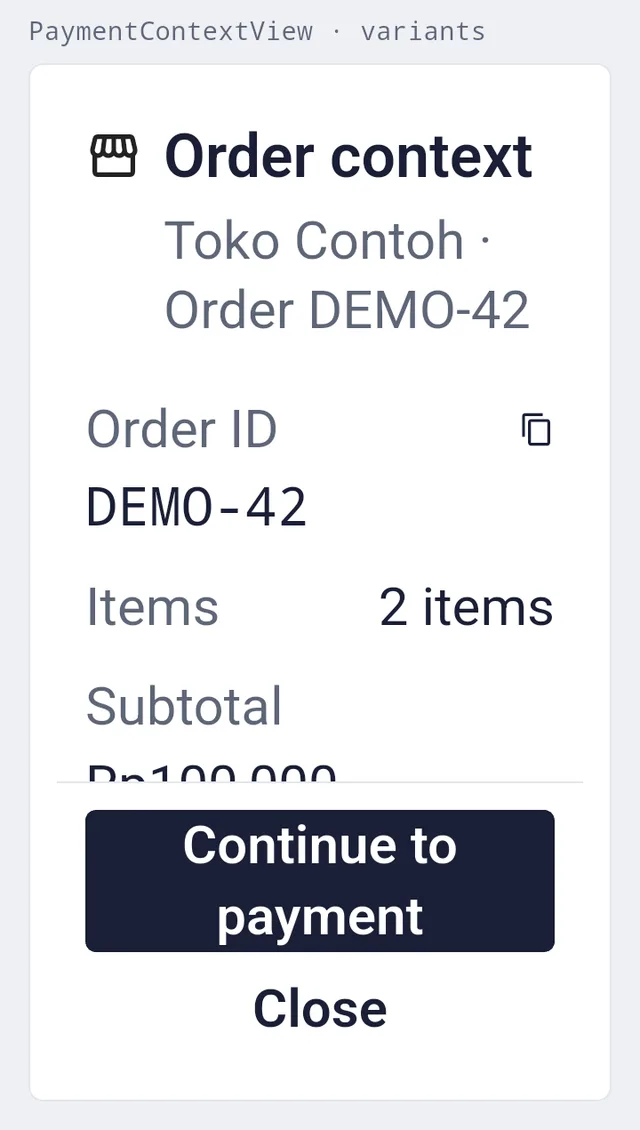
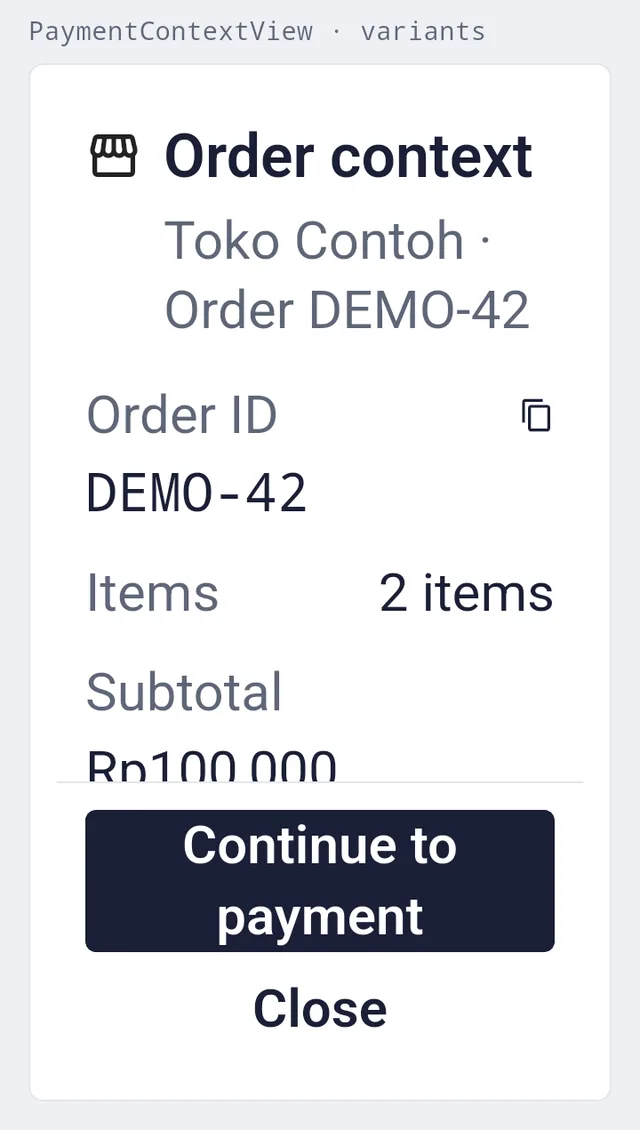
fix(views): tighten the large-text header gap; record D91 (#161)
At large text a page header's gap to its body is related (8 dp)
instead of group (16 dp). With the status-filter fold this puts a whole
first history row above the tab bar at 320 dp and 200% with
three-button navigation. Records D91 with device measurements and
refreshes the affected 200% docs captures.

diff --git a/lib/src/foundation/view_frame.dart b/lib/src/foundation/view_frame.dart
@@ -324,11 +324,16 @@ class ViewHeader extends StatelessWidget {
     };
     return Padding(
       // A breadcrumb's 48 dp target already spaces it from the edge above.
+      // At large text the gap to the body is `related`: the title's tall
+      // line already leaves room under the glyphs, and on a small phone the
+      // body needs the height (D91).
       padding: EdgeInsets.fromLTRB(
         space,
         above == null ? space : theme.space(PaymentSpace.inline),
         space,
-        space,
+        PaymentType.isLarge(context)
+            ? theme.space(PaymentSpace.related)
+            : space,
       ),
       child: LayoutBuilder(
         builder: (context, k) {

diff --git a/example/test/android_header_navbar_test.dart b/example/test/android_header_navbar_test.dart
@@ -59,6 +59,8 @@ void main() {
     // is a button on the search line.
     expect(find.byType(PaymentTabs), findsNothing);
     final search = t.getRect(find.byType(PaymentTextField));
+    // At large text the header's gap to the body is `related` (D91).
+    expect(search.top - t.getRect(find.text('Transactions').first).bottom, 8);
     final row = find.byType(TransactionListItem).first;
     expect(t.getRect(row).top, moreOrLessEquals(search.bottom));
     final navTop = t.getRect(find.byType(NavigationBar)).top;

diff --git a/docs/prd-foundation-components.md b/docs/prd-foundation-components.md
@@ -1695,6 +1695,7 @@ New in revision 3 (parity; for review):
 | D89 | **The toast's snack bar animation runs 1 µs under reduced motion.** Under reduced motion the kit passes a 1 µs `snackBarAnimationStyle` each way, not `AnimationStyle.noAnimation`. A toast or host snack bar shows and leaves within two device frames; a swap shows the old bar, one blank frame, then the new bar. No frame paints an in-between value. Refines D66 ("reduced means zero") and the reduced-motion swap in D77 and D78 for the toast only. B9 for the toast's show and leave is checked by `expectToastStill`: still after two frames, each bar fully shown or hidden on every frame. Other kit motion keeps zero. Orchestrator decision, B3 batch, 2 Nov 2026 (#126). | At zero, `ScaffoldMessengerState.hideCurrentSnackBar` (Flutter 3.44.6) dismisses synchronously and starts the waiting bar. That bar completes before the SDK clears the old reading timer, so debug builds fail `_snackBarTimer == null` (`scaffold.dart:409`). It fired when a kit toast closed with a host bar waiting, and when a host bar timed out with another waiting on the zero-duration animation a kit toast left behind. The screen-reader hide jumps to zero, so both directions need the delay. Tested: zero entrance with a 1 µs exit still fails the screen-reader case. Cost: one extra frame per change, and toast B9 is checked over two frames, not one. |
 
 | D90 | **Long catalog specimens continue in ordered parts.** A keyed specimen taller than D82's 1200 dp cap is not cut off. The first image keeps its name and its D82 crop; continuation images `<name>_part2`, `<name>_part3` and so on follow in reading order. Each part is at most 1200 dp tall and repeats the last 64 dp of the part before, and the last part ends at the specimen's 16 dp bottom margin. The capture harness measures the overflow and scrolls the gallery for each part; the driver deletes a name's older parts when it writes that name's first image. `pnpm screens` lists the parts under their first image's `screens.json` entry (`parts`, each with width and height) and deletes part WebPs no entry lists. `<Screen>` shows every part after the first image, light and dark sets separately, with "Part n of N" alt text and a caption note. `pnpm check:pages` fails on a missing or unlisted part and on a phone catalog image over the cap. The 1200 dp cap and the real-size overlay and state captures are unchanged. Extends D82. Orchestrator scope B4, 2 Nov 2026 (#172). | Eleven 200% and long specimens stopped at the cap and hid examples. Raising the cap would make one image up to 5,382 dp (about 10,760 px) tall, too long to read on a page and heavy to load. Overlapping parts keep every image bounded and repeat any row cut at a seam. |
+| D91 | **On phones at large text, history's status filter is a button on the search line.** Below 600 dp and above 1.5× text (`PaymentType.isLarge`), `TransactionHistory` drops the status tab row and puts a 48 dp filter `PaymentIconButton` at the end of the search line, after the host's `searchActions` (D63a). Its tooltip and spoken name is "Filter by status" / "Saring menurut status"; its spoken value is the current filter. It opens a `PaymentMenu` (the D55 action sheet on phones) listing every filter, the current one with a check. While a filter other than All is set, the glyph fills and takes the accent and the button reads as selected, like the date-range button. The search line keeps the placeholder label (D63a). Normal text and wide screens keep the tabs. At large text every page header's gap to the body (`ViewHeader` bottom padding) is `related` (8 dp) instead of `group` (16 dp), at every width: the title's tall line already leaves room under the glyphs. Every filter stays one tap away and the active filter still shows as a host chip; it is the same list in the same place, not a separate large-text mode (D63). No public API change; one new kit string. Refines D63a and D83. Owner decision to fix, not accept 360 dp, 3 Nov 2026 (#161). | After D83, at 320 dp and 200% (Android's smallest "largest display size"), the first row's badge was still 25.8 dp (gesture) and 47.1 dp (3-button) under the app's tab bar. The tab row and its gap take 56 dp; the header gap gives 8 dp more, so a whole row clears with three-button navigation. A smaller title role saves nothing, because the ⋮ target already sets the title row's 48 dp. Not chosen: accepting 360 dp as the target; hiding the search box behind a button (search is the main way to find a payment). Cost: the status filter is one tap deeper on phones at large text, and the search box is 56 dp narrower there, so its placeholder ellipsizes sooner; large-text page headers sit 8 dp closer to their body. |
 
 #### D83 acceptance measurements (2 Nov 2026)
 
@@ -1712,6 +1713,23 @@ A01 on the Android 17/API 37 phone at 200% app text, system Light. Native dpr 2 
 | 320 dp | id | Three-button | Does not fit | −59.1 dp | −47.1 dp |
 
 Layer renders and system screenshots: `C:/DevTools/android-fixes/pr-df/{gesture|threebutton}_{360|320}_history_{en|id}_light_200_{layer|system}.png`. The complete first row fits at 360 dp in both languages and navigation modes. At 320 dp, the badge shortfall is 25.8 dp with gestures and 47.1 dp with three-button navigation, in both languages. The orchestrator approved a draft with these measured gaps and no further layout change in this PR; the owner will open a follow-up for the 320 dp remainder. No large-text mode was added (D63).
+
+#### D91 acceptance measurements (3 Nov 2026)
+
+A01 on the Android 17/API 37 phone (`FlutterPayment_API37_2`) at 200% app text, system Light, measured in-app from the laid-out rects. Native dpr 2 is 360×640 dp; PASS_DPR=2.25 is 320×568.9 dp. Positive clearance is above the app's tab bar. Row clearance includes the row's 12 dp bottom padding; badge clearance measures the badge bottom.
+
+| Width | Language | Navigation | Whole first row | Row clearance | Badge clearance | Before (D83) row / badge |
+| --- | --- | --- | --- | ---: | ---: | ---: |
+| 320 dp | en | Three-button | Fits | +4.9 dp | +16.9 dp | −59.1 / −47.1 dp |
+| 320 dp | id | Three-button | Fits | +4.9 dp | +16.9 dp | −59.1 / −47.1 dp |
+| 320 dp | en | Gesture | Fits | +26.2 dp | +38.2 dp | −37.8 / −25.8 dp |
+| 320 dp | id | Gesture | Fits | +26.2 dp | +38.2 dp | −37.8 / −25.8 dp |
+| 360 dp | en | Three-button | Fits | +68.0 dp | +80.0 dp | +4.0 / +16.0 dp |
+| 360 dp | id | Three-button | Fits | +68.0 dp | +80.0 dp | +4.0 / +16.0 dp |
+| 360 dp | en | Gesture | Fits | +92.0 dp | +104.0 dp | +28.0 / +40.0 dp |
+| 360 dp | id | Gesture | Fits | +92.0 dp | +104.0 dp | +28.0 / +40.0 dp |
+
+The 320 dp gesture rows were measured with the tab fold alone (+18.2 / +30.2 dp in both languages); the header gap adds the same 8 dp it adds in every other row (the first row starts 8 dp higher: 229.3 dp against 237.3 dp), so the table shows +26.2 / +38.2 dp. The other rows were measured on the final code. System screenshots: `C:/DevTools/android-fixes/pr-161/{gesture|threebutton}_320_history_{en|id}_light_200_system.png`. No large-text mode was added (D63).
 
 ## 9. Variant governance
 

diff --git a/docs/decisions.md b/docs/decisions.md
@@ -660,6 +660,23 @@ A01 on the Android 17/API 37 phone at 200% app text, system Light. Native dpr 2 
 
 Layer renders and system screenshots: `C:/DevTools/android-fixes/pr-df/{gesture|threebutton}_{360|320}_history_{en|id}_light_200_{layer|system}.png`. The complete first row fits at 360 dp in both languages and navigation modes. At 320 dp, the badge shortfall is 25.8 dp with gestures and 47.1 dp with three-button navigation, in both languages. The orchestrator approved a draft with these measured gaps and no further layout change in this PR; the owner will open a follow-up for the 320 dp remainder. No large-text mode was added (D63).
 
+#### D91 acceptance measurements (3 Nov 2026)
+
+A01 on the Android 17/API 37 phone (`FlutterPayment_API37_2`) at 200% app text, system Light, measured in-app from the laid-out rects. Native dpr 2 is 360×640 dp; PASS_DPR=2.25 is 320×568.9 dp. Positive clearance is above the app's tab bar. Row clearance includes the row's 12 dp bottom padding; badge clearance measures the badge bottom.
+
+| Width | Language | Navigation | Whole first row | Row clearance | Badge clearance | Before (D83) row / badge |
+| --- | --- | --- | --- | ---: | ---: | ---: |
+| 320 dp | en | Three-button | Fits | +4.9 dp | +16.9 dp | −59.1 / −47.1 dp |
+| 320 dp | id | Three-button | Fits | +4.9 dp | +16.9 dp | −59.1 / −47.1 dp |
+| 320 dp | en | Gesture | Fits | +26.2 dp | +38.2 dp | −37.8 / −25.8 dp |
+| 320 dp | id | Gesture | Fits | +26.2 dp | +38.2 dp | −37.8 / −25.8 dp |
+| 360 dp | en | Three-button | Fits | +68.0 dp | +80.0 dp | +4.0 / +16.0 dp |
+| 360 dp | id | Three-button | Fits | +68.0 dp | +80.0 dp | +4.0 / +16.0 dp |
+| 360 dp | en | Gesture | Fits | +92.0 dp | +104.0 dp | +28.0 / +40.0 dp |
+| 360 dp | id | Gesture | Fits | +92.0 dp | +104.0 dp | +28.0 / +40.0 dp |
+
+The 320 dp gesture rows were measured with the tab fold alone (+18.2 / +30.2 dp in both languages); the header gap adds the same 8 dp it adds in every other row (the first row starts 8 dp higher: 229.3 dp against 237.3 dp), so the table shows +26.2 / +38.2 dp. The other rows were measured on the final code. System screenshots: `C:/DevTools/android-fixes/pr-161/{gesture|threebutton}_320_history_{en|id}_light_200_system.png`. No large-text mode was added (D63).
+
 ### Docs readability, 2 November 2026
 
 - **D86 — docs decision guides are tables; screenshots show at real phone size (#182, #183).** A "which token or variant when" guide is a two-column Markdown table (condition, then token or variant), with "Use the first row that matches" where order matters. It is never a fenced text block. Diagrams and verbatim text (banner anatomy, the host-owned data flow, the license) may stay fenced. A phone capture in `<Screens>` displays at up to 22.5 rem, its 360 dp width at 1:1. It shares a row when there is room and wraps instead of shrinking on narrow columns. Tablet captures (wider than 640 px) use the full column. Chart component pages lead with their cropped `_variants` specimen (D82), not the full-screen gallery capture with fixture chips and the nav bar. The Sparkline variants specimen now shows the sparkline beside a KPI amount and as a two-period comparison. It replaces a lone line centred in a 180 dp box, and drops a dead single-series branch nested under the meter case. The full-screen `chart_*` captures stay registered; no page shows them.
@@ -673,3 +690,7 @@ Layer renders and system screenshots: `C:/DevTools/android-fixes/pr-df/{gesture|
 ### Long catalog specimens, 2 November 2026
 
 - **D90 — long catalog specimens continue in ordered parts (#172).** Extends D82. A keyed specimen taller than the 1200 dp cap is not cut off. The first image keeps its name and its D82 crop; continuation images `<name>_part2`, `<name>_part3` and so on follow in reading order. Each part is at most 1200 dp tall and repeats the last 64 dp of the part before, so a row cut at one image's lower edge is whole at the top of the next; the last part ends at the specimen's 16 dp bottom margin. `captureSlices` in `example/integration_test/capture_slices.dart` plans the parts from the measured height; `capture()` scrolls the gallery to each part, checks that it starts below the app bar and ends inside the gallery, and scrolls back. The driver deletes a name's older `_partN` PNGs when it writes that name's first image, so a shorter recapture leaves no stale tail. `pnpm screens` lists the parts under their first image's `screens.json` entry (`parts`, each with width and height) and deletes part WebPs that no entry lists. `<Screen>` shows every part after the first image, the light and dark sets separately, with "Part n of N" alt text and a caption note; pages keep one `<Screen>` per specimen. `pnpm check:pages` fails on a missing or unlisted part and on a phone catalog image over the cap. Rejected: raising the cap (the longest specimen, the Indonesian data table at 200%, is 5,382 dp, about 10,760 px) and per-page manual crops. Tablet specimens follow the same rule when they are recaptured.
+
+### History at 320 dp, 3 November 2026
+
+- **D91 — on phones at large text, history's status filter is a button on the search line (#161).** Refines D63a and D83. Below 600 dp and above 1.5× text (`PaymentType.isLarge`), `TransactionHistory` drops the status tab row and puts a 48 dp filter `PaymentIconButton` at the end of the search line, after the host's `searchActions`. Its tooltip and spoken name is "Filter by status" / "Saring menurut status" (new kit string `filterByStatus`) and its spoken value is the current filter. It opens a `PaymentMenu`, the D55 action sheet on phones, listing every filter with a check on the current one (spoken "…, Selected"). While a filter other than All is set the glyph fills, takes the accent and the button reads as selected, as the date-range button does. The search keeps its label as the placeholder (D63a). At large text every page header's gap to the body (`ViewHeader` bottom padding) is `related` (8 dp) instead of `group` (16 dp), at every width, since the title's tall line already leaves room under the glyphs. The list follows the search line directly: the row's own 12 dp padding spaces it from the box. Normal text and wide screens keep the tabs. Every filter stays one tap away and the active filter still shows as the host's chip, so it is the same list in the same place, not a separate large-text mode (D63). No public API change. Owner decision to fix the 320 dp case rather than accept 360 dp, 3 Nov 2026. After D83 the first row's badge was still 25.8 dp (gesture) and 47.1 dp (3-button) under the app's tab bar at 320 dp and 200%; the tab row and its gap take 56 dp, and the header gap 8 dp more. A smaller title role saves nothing, because the ⋮ target already sets the title row's 48 dp. Not chosen: accepting 360 dp as the target; hiding the search box behind a button, since search is the main way to find a payment. Cost: the status filter is one tap deeper on phones at large text, and the search box is 56 dp narrower there, so its placeholder ellipsizes sooner ("Search…", "Cari tr…" at 320 dp).
